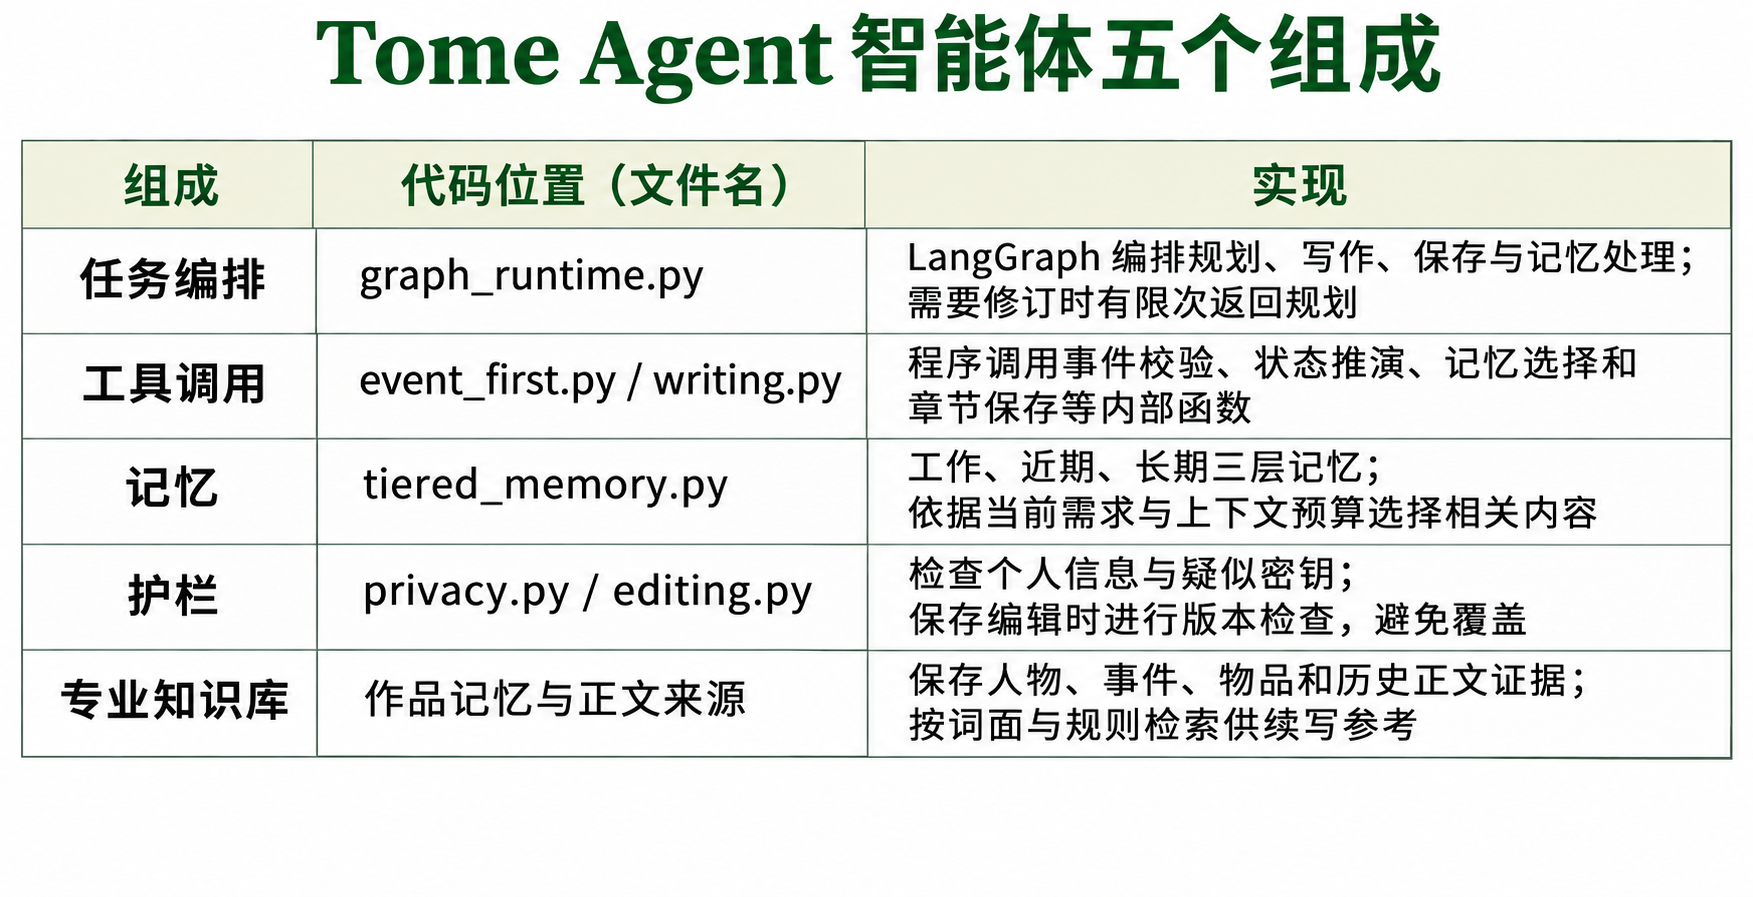
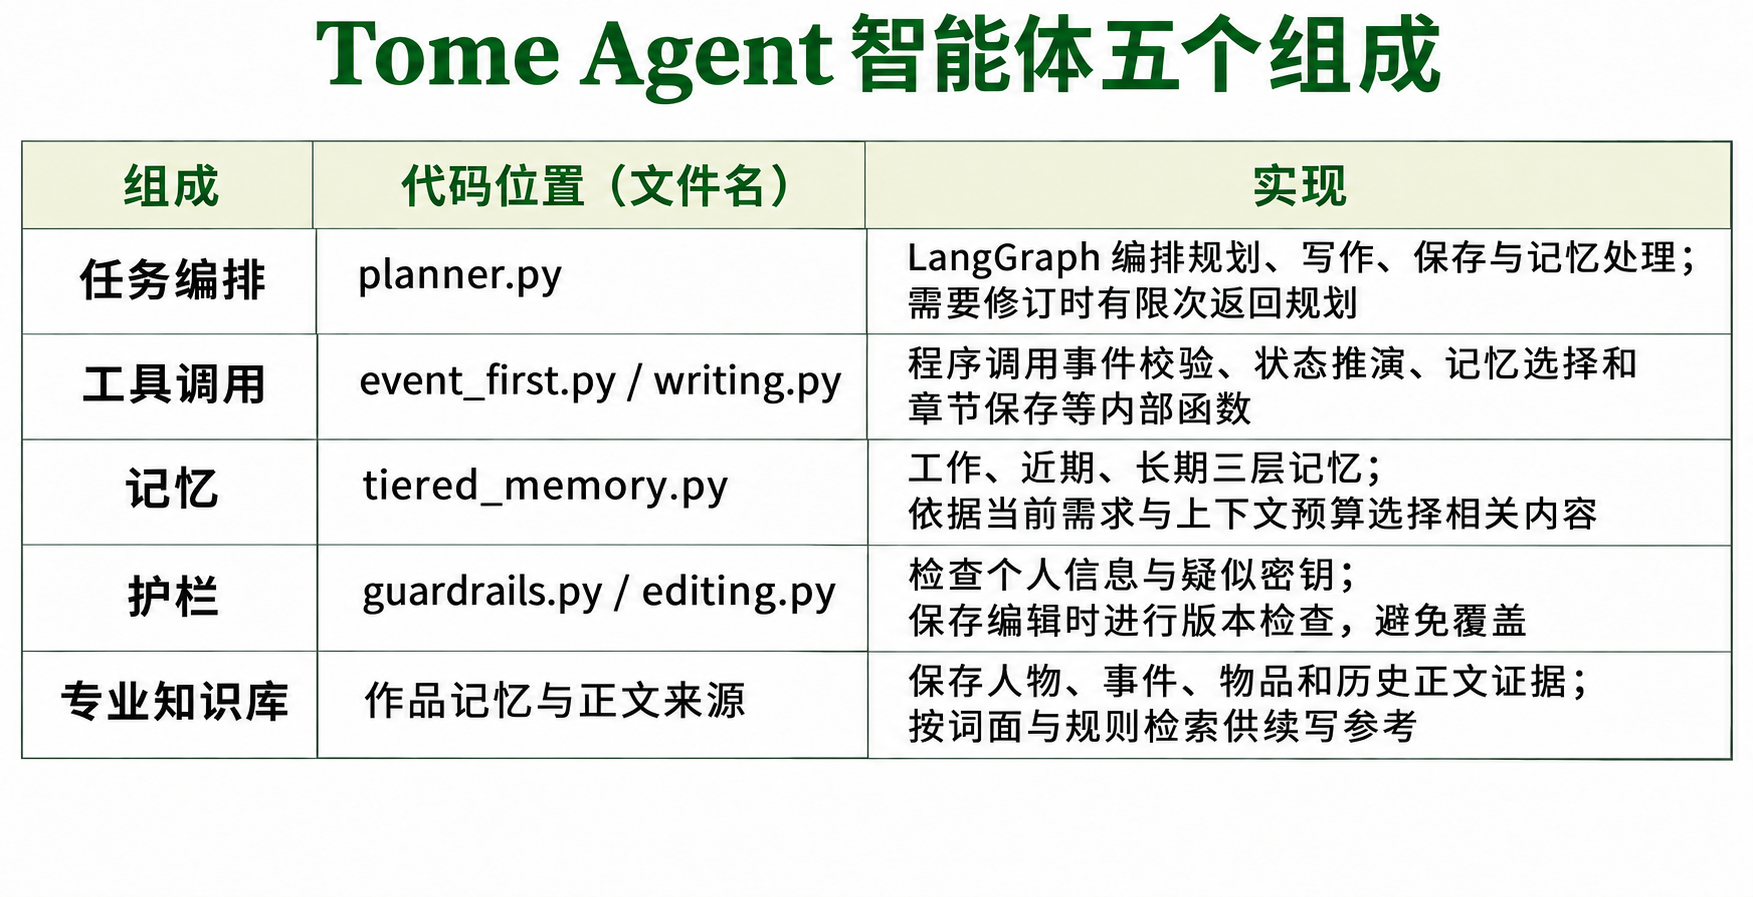
slides: 智能体五个组成图更新为 planner.py 与 guardrails.py 版本

diff --git a/docs/slides/slides.md b/docs/slides/slides.md
@@ -360,7 +360,7 @@ layout: default
 
 <div class="workflow-figure"><img src="/agent-components.png" alt="Tome Agent 智能体五个组成与代码位置"></div>
 
-<div class="bottom-note">来源：code/core_engine/ · graph_runtime.py · event_first.py · writing.py · tiered_memory.py · privacy.py · editing.py</div>
+<div class="bottom-note">来源：code/core_engine/ · planner.py · event_first.py · writing.py · tiered_memory.py · guardrails.py · editing.py</div>
 
 ---
 layout: default
